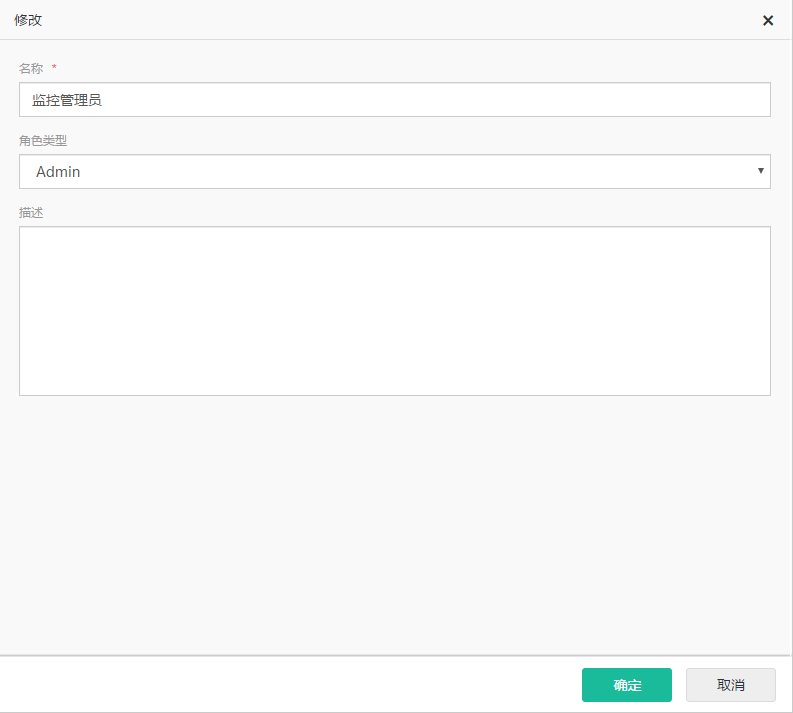
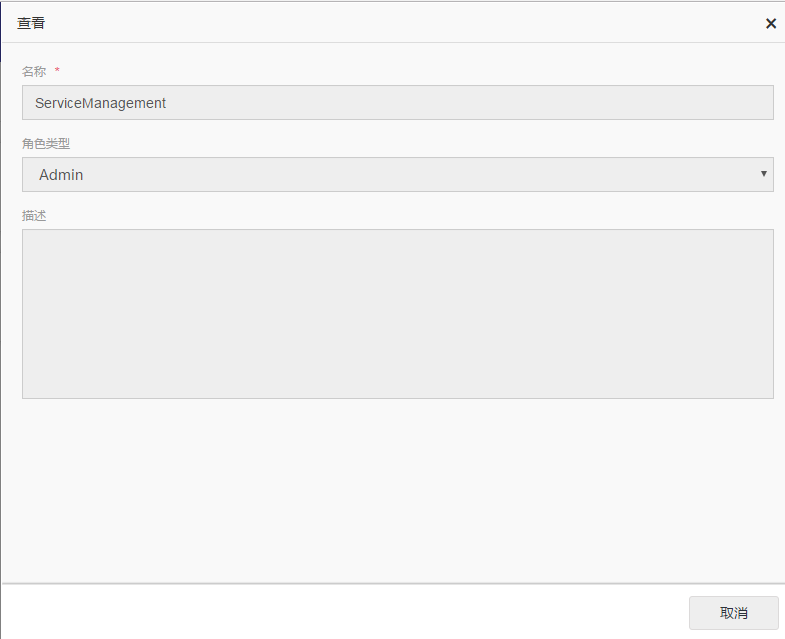
Updates assets/5-/6/image156.png
Auto commit by GitBook Editor

diff --git a/articles/cesb/5-/yong_hu_guan_li.md b/articles/cesb/5-/yong_hu_guan_li.md
@@ -13,7 +13,7 @@
 
 ![](/assets/5-/6/image138.png)
 
-图2.6‑1用户管理
+图2.5‑1用户管理
 
 ### 2.5.1.3 操作流程
 
@@ -23,7 +23,7 @@
 
 ![](/assets/5-/6/image139.png)
 
-图2.6‑2新增用户
+图2.5‑2新增用户
 
 **设置服务权限**
 
@@ -35,13 +35,13 @@
 
 ![](/assets/5-/6/image142.png)
 
-图2.6‑3 设置服务权限
+图2.5‑3 设置服务权限
 
 配置用户可查看管理的环境。
 
 ![](/assets/5-/6/image143.png)
 
-图2.6‑4查看环境配置
+图2.5‑4查看环境配置
 
 **修改**
 
@@ -50,7 +50,7 @@
 
 ![](/assets/5-/6/image144.png)
 
-图2.6-5修改用户
+图2.5-5修改用户
 
 **重置密码**
 
@@ -58,7 +58,7 @@
 
 ![](/assets/5-/6/image146.png)
 
-图2.6‑6重置密码
+图2.5‑6重置密码
 
 ## 2.5.2 用户组管理
 
@@ -72,7 +72,7 @@
 
 ![](/assets/5-/6/image147.png)
 
-图2.6‑7 用户组管理
+图2.5‑7 用户组管理
 
 ### 2.5.2.3 操作流程
 
@@ -82,7 +82,7 @@
 
 ![](/assets/5-/6/image148.png)
 
-图2.6‑8 用户组管理—新增用户组
+图2.5‑8 用户组管理—新增用户组
 
 **修改**
 
@@ -94,7 +94,7 @@
 
 ![](/assets/5-/6/image149.png)
 
-图2.6‑9 用户组管理—成员管理
+图2.5‑9 用户组管理—成员管理
 
 **管理用户**
 
@@ -102,7 +102,7 @@
 
 ![](/assets/5-/6/image150.png)
 
-图2.6‑10 成员管理—添加用户
+图2.5‑10 成员管理—添加用户
 
 **组角色**
 
@@ -110,7 +110,7 @@
 
 ![](/assets/5-/6/image151.png)
 
-图2.6‑11 用户组管理—组角色
+图2.5‑11 用户组管理—组角色
 
 **添加角色**
 
@@ -118,7 +118,7 @@
 
 ![](/assets/5-/6/image152.png)
 
-图2.6‑12 组角色—添加角色
+图2.5‑12 组角色—添加角色
 
 **删除**
 
@@ -126,7 +126,7 @@
 
 ![](/assets/5-/6/image153.png)
 
-图2.6-13删除
+图2.5-13删除
 
 ## 2.5.3 角色管理
 
@@ -140,7 +140,7 @@
 
 ![](/assets/5-/6/image154.png)
 
-图2.6‑14角色管理
+图2.5‑14角色管理
 
 ### 2.5.3.3 操作流程
 
@@ -150,7 +150,7 @@
 
 ![](/assets/5-/6/image155.png)
 
-图2.6‑15新增角色
+图2.5‑15新增角色
 
 **查看**
 
@@ -226,7 +226,7 @@
 
 ![](/assets/5-/6/image156.png)
 
-图2.6‑16修改角色
+图2.5‑16查看角色
 
 **成员管理**
 
@@ -234,7 +234,7 @@
 
 ![](/assets/5-/6/image157.png)
 
-图2.6‑17 角色管理—成员管理
+图2.5‑17 角色管理—成员管理
 
 **管理用户**
 
@@ -242,7 +242,7 @@
 
 ![](/assets/5-/6/image158.png)
 
-图2.6‑18成员管理—添加角色
+图2.5‑18成员管理—添加角色
 
 **设置权限**
 
@@ -252,13 +252,13 @@
 
 ![](/assets/5-/6/image185.png)
 
-图2.6‑19 设置权限
+图2.5‑19 设置权限
 
 配置用户可查看管理的环境。
 
 ![](/assets/5-/6/image159.png)
 
-图2.6‑20 查看/修改环境配置
+图2.5‑20 查看/修改环境配置
 
 **删除**
 
@@ -268,7 +268,7 @@
 
 ![](/assets/5-/6/image160.png)
 
-图2.6‑21 删除角色
+图2.5‑21 删除角色
 
 
 
